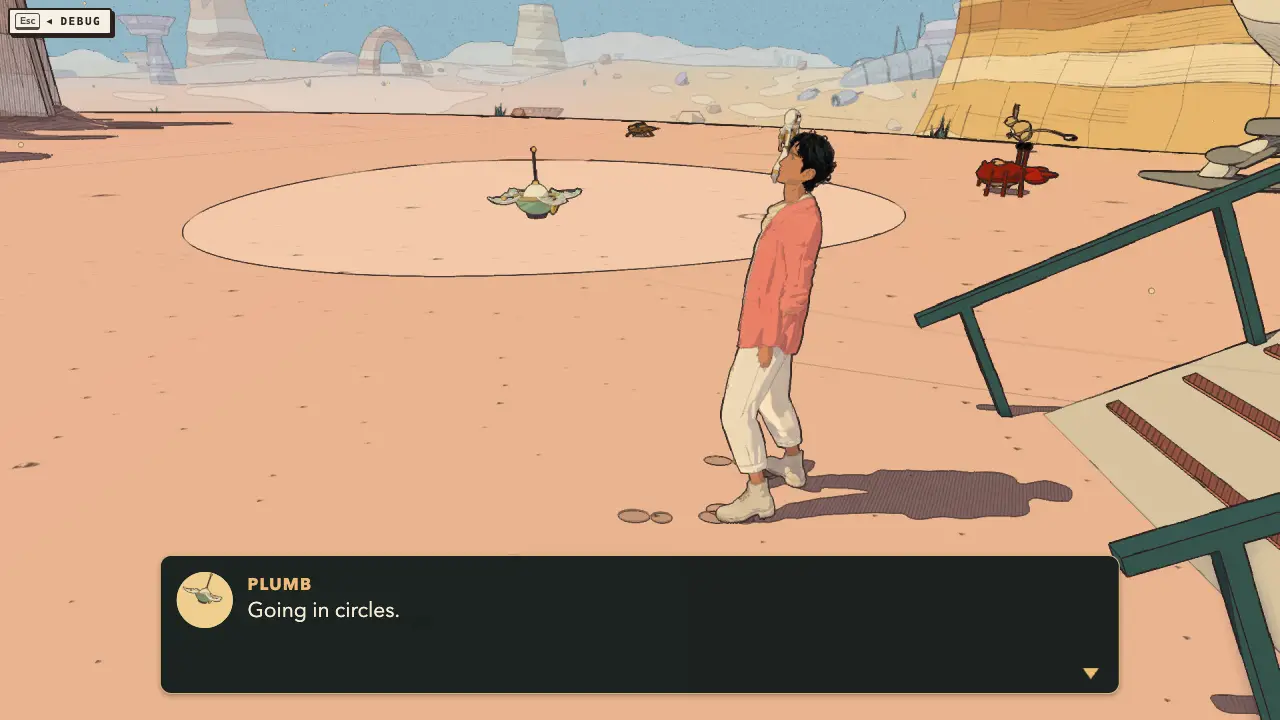
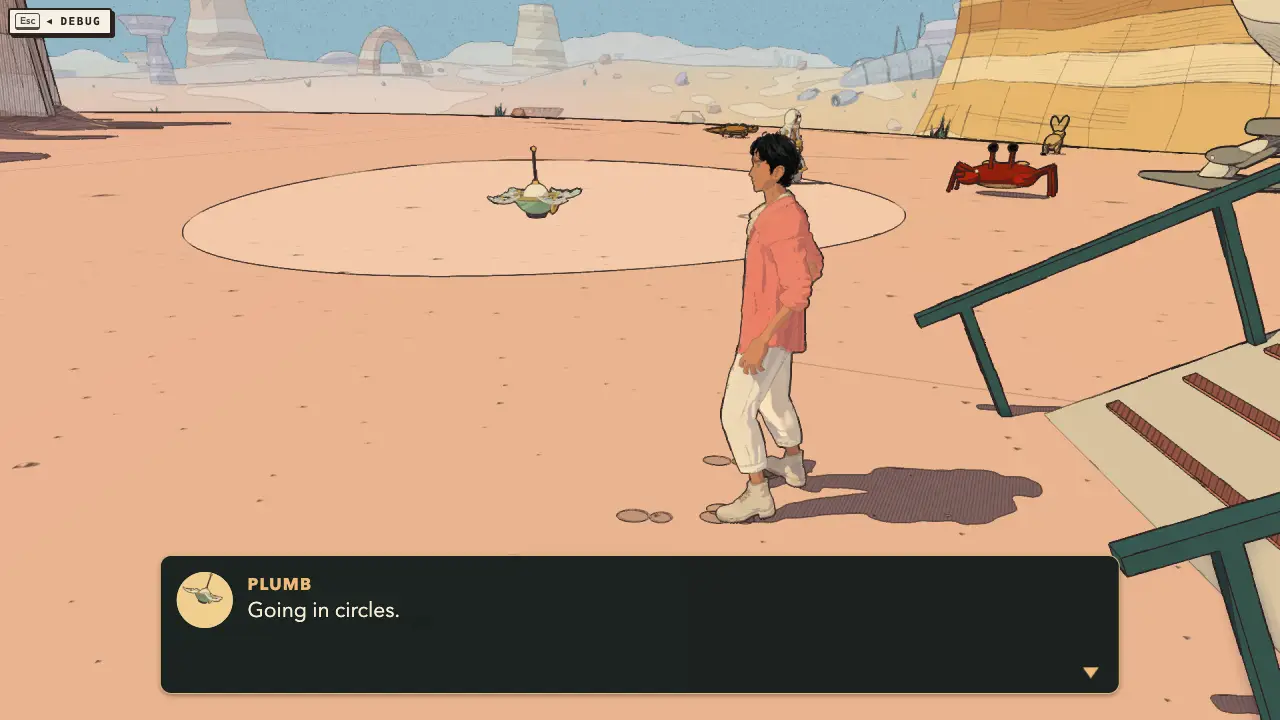
Conversation gestures keep the back upright and the face on the speaker (#678)
Listening to Plumb's lost talk ("Going in circles."), the traveller nodded with
his whole back leaned far back and his face to the sky. The cause was not a
look-at (nothing aims the head at a speaker; the eyes do, and the body turns
flat) but the conversation gestures: Mixamo's talkers stand back with their
faces 15-25 deg up, and gestures.glb folds each clip's hips into spine_01 for
hips at rest while the idle's hips under the layer are tipped back. Laid on,
every clip (the listener's nods included) leaned bodies 7-25 deg back.

Animator.layTalk now lays spine_01 on over the hips as captured, takes each
clip's own mean lean back and face lift out by its weight (pitchBase, from its
tracks), and holds what is left within GESTURE_POSE past the idle's pose
(3 deg back, 8 deg up, softly: heldPitch). Forward leans and looking down stay.
Every body that gestures gets it (the traveller and the people).

Tests: talk-gesture.test.js checks heldPitch and, on the traveller, every clip
within 8 deg of his standing lean and 10 deg of his standing face (fails on
origin/main: talking_1 leans to -11.7 deg). Thinking's hand on the small of his
back is allowed 5.5 cm from the trunk's line (upright, the back comes to it).
Changelog line with a before/after of the forced nod; plumb-plain-after.webp
shot again with the fix.

Unity: the pose is computed by the same src/animator.js through engine/, so
the engines get it; not checked in the Unity editor (no Unity run).

diff --git a/src/animator.js b/src/animator.js
@@ -3,6 +3,7 @@ import { worldPos, worldQuat, updateChain } from './world-read.js';
 import { GLTFLoader } from 'three/addons/loaders/GLTFLoader.js';
 import { clone as cloneSkeleton } from 'three/addons/utils/SkeletonUtils.js';
 import { MotionMatcher, MATCH, mirrorClip } from './motion-match.js';
+import { GESTURE_POSE, heldPitch } from './talk-gesture.js';
 
 // Motion from Quaternius' Universal Animation Library (CC0, public/anim/),
 // retargeted onto our hand-built rider rig.
@@ -317,6 +318,36 @@ const _q = new THREE.Quaternion(), _q2 = new THREE.Quaternion(), _qp = new THREE
 const _a = new THREE.Vector3(), _b = new THREE.Vector3(), _d = new THREE.Vector3(), _r = new THREE.Vector3();
 const _m = new THREE.Matrix4(), _x = new THREE.Vector3(), _y = new THREE.Vector3(), _z = new THREE.Vector3();
 const DOWN = new THREE.Vector3(0, -1, 0), UP = new THREE.Vector3(0, 1, 0), FWD = new THREE.Vector3(0, 0, 1);
+const TRUNK = ['spine_01', 'spine_02', 'spine_03', 'neck_01', 'Head'];
+const _tp0 = { p0: new THREE.Quaternion(), pH: new THREE.Quaternion() }, _tp1 = { p0: new THREE.Quaternion(), pH: new THREE.Quaternion() };
+const _tq = new THREE.Quaternion(), _tq2 = new THREE.Quaternion(), _tv = new THREE.Vector3(), _tv2 = new THREE.Vector3(), _tv3 = new THREE.Vector3();
+/**
+ * The back's lean and the face's pitch from the chain's own numbers (no matrices: the walk at the end of the frame makes
+ * them, src/matrix-cache.js): `R` the rest chain (Animator.restChain), `pelvis` the hips' local turn, `local(i)` /
+ * `pos(i)` TRUNK[i]'s. Into `out`: lean (rad, forward +: spine_01 to neck_01 about the body's side; the library skeleton
+ * faces +Z, y up), up (rad, the face's pitch, up +, from its rest), fx, fz (the face's way), p0 and pH (the world turns
+ * of spine_01's parent and of the head's).
+ */
+function trunkPitch(R, pelvis, local, pos, restHead, out) {
+  const q = _tq.copy(R.root).multiply(pelvis), at = _tv.set(0, 0, 0), neck = _tv2.set(0, 0, 0);
+  out.p0.copy(q);
+  for (let i = 0; i < TRUNK.length; i++) {
+    if (i > 0) at.add(_tv3.copy(pos(i)).applyQuaternion(q));
+    if (i === 4) out.pH.copy(q);
+    q.multiply(local(i));
+    if (i === 3) neck.copy(at);
+  }
+  out.lean = Math.atan2(neck.z, neck.y);
+  const f = _tv3.copy(FWD).applyQuaternion(q.multiply(_tq2.copy(restHead).invert()));
+  out.up = Math.asin(THREE.MathUtils.clamp(f.y, -1, 1));
+  out.fx = f.x; out.fz = f.z;
+  return out;
+}
+/** Turn `bone` by `angle` about `axis` (world), its parent's world turn `pw`: its local turn, the matrices left to the walk. */
+function turnInWorld(bone, pw, axis, angle) {
+  _tq2.setFromAxisAngle(axis, angle);
+  bone.quaternion.premultiply(_tq.copy(pw).invert().multiply(_tq2).multiply(pw));
+}
 
 export class Animator {
   /** @param lib result of loadAnimationLibrary(); @param char a buildCharacter() rig */
@@ -375,6 +406,10 @@ export class Animator {
     this.restHips = this.hips.getWorldPosition(new THREE.Vector3());
     this.restAnkleY = this.bone('foot_l').getWorldPosition(new THREE.Vector3()).y;   // (the clips' floor: a standing ankle's height)
     this.restHipsQ = this.hips.getWorldQuaternion(new THREE.Quaternion());
+    // (the back's chain at rest, the hips' parent in the world: each gesture's own lean and lift of the face, pitchBase)
+    this.restChain = { root: this.hips.parent ? worldQuat(this.hips.parent, new THREE.Quaternion()) : new THREE.Quaternion(), pelvis: this.hips.quaternion.clone(),
+      bones: TRUNK.map((n) => { const b = this.bone(n); return b ? { name: n, b, q: b.quaternion.clone(), p: b.position.clone() } : null; }) };
+    if (this.restChain.bones.some((x) => !x) || !this.restHead) this.restChain = null;
     for (const a of Object.values(this.actions)) a.play();
     this.phase = 0;
     this.w = { idle: 1, walk: 0, jog: 0, sprint: 0, air: 0, jumpStart: 0, drive: 0, talk: 0, jumpLand: 0, look: 0, ledge: 0, climbIdle: 0, climbUp: 0, climbDown: 0, climbLeft: 0, climbRight: 0 };
@@ -771,14 +806,76 @@ export class Animator {
     const free = s.onGround && !(s.speed > 0.6) && !s.steering && (s.mode === 'ground' || s.mode === 'talk' || s.mode == null) && !(this.move && this.move.legs !== false);
     const list = G.update(dt, free ? info : null, this);
     this.talkW = 0;   // (this frame's most: a seated body's arms come off its lap by it, NPC.posture)
+    const idle = list.length && this.restChain ? this.talkPitch(_tp0) : null;   // (the idle's lean and face, under the gestures)
     for (const g of list) {
       const clip = this.moveClip(g.name);
       if (!clip || !(g.w > 0.001)) continue;
-      this.overlayMove(Object.assign(this._talkM ??= {}, { clip, t: g.t, w: g.w, spine: g.spine }));
+      this.overlayMove(Object.assign(this._talkM ??= {}, { clip, t: g.t, w: g.w, spine: g.spine, talk: true }));
       this.headW = Math.max(this.headW, g.w);
       this.talkW = Math.max(this.talkW, g.w);
     }
+    if (idle && this.talkW > 0) {
+      // (each clip's own lean back and face lifted taken out by its weight, issue #678: its nods and bows kept as they go)
+      let back = 0, up = 0;
+      for (const g of list) {
+        const clip = this.moveClip(g.name), b = clip && g.w > 0.001 ? this.pitchBase(clip) : null;
+        if (!b) continue;
+        // (the face's own lift on the back's: a clip leaning back lifts the face with it; seated, the back is the seat's)
+        if (g.spine !== false) back += g.w * Math.max(0, b.back);
+        up += g.w * Math.max(0, b.up - Math.max(0, b.back));
+      }
+      const B = this.restChain.bones;
+      if (back > 1e-4) turnInWorld(B[0].b, this.talkPitch(_tp1).p0, _x.set(1, 0, 0), back);
+      if (up > 1e-4) { const f = this.talkPitch(_tp1), l = Math.hypot(f.fx, f.fz); if (l > 1e-4) turnInWorld(B[4].b, f.pH, _x.set(f.fz / l, 0, -f.fx / l), up); }
+      this.holdTalkPitch(idle);
+    }
     if (!info && G.idle) { this.talkGesture = null; this.talkW = 0; }
+  }
+
+  /** The source skeleton's back and face as they are posed now (trunkPitch), into `out`. */
+  talkPitch(out) {
+    const B = this.restChain.bones;
+    return trunkPitch(this.restChain, this.hips.quaternion, (i) => B[i].b.quaternion, (i) => B[i].b.position, this.restHead, out);
+  }
+
+  /**
+   * A gesture clip's own standing lean back and lift of the face (rad, the mean over the clip, the hips at rest; negative:
+   * it leans forward, looks down), from its tracks: { back, up }, once a clip. Mixamo's talkers stand some 5-10° back
+   * with their faces 15-25° up; taken out, a nod nods about the idle's own face, not the sky.
+   */
+  pitchBase(clip) {
+    const cache = (this._pitchBase ??= new Map());
+    let b = cache.get(clip);
+    if (b) return b;
+    const R = this.restChain, ip = R.bones.map((x) => clip.tracks.find((t) => t.name === `${x.name}.quaternion`)?.createInterpolant());
+    const o = { p0: new THREE.Quaternion(), pH: new THREE.Quaternion() }, at = (i) => R.bones[i].p;
+    const { lean: lean0, up: up0 } = trunkPitch(R, R.pelvis, (i) => R.bones[i].q, at, this.restHead, o);
+    let back = 0, up = 0, n = 0, t = 0;
+    const N = Math.max(2, Math.ceil(clip.duration * 10)), qs = R.bones.map(() => new THREE.Quaternion());
+    const local = (i) => (ip[i] ? qs[i].fromArray(ip[i].evaluate(t)) : R.bones[i].q);
+    for (let k = 0; k < N; k++) {
+      t = (k / (N - 1)) * clip.duration;
+      trunkPitch(R, R.pelvis, local, at, this.restHead, o);
+      back += lean0 - o.lean; up += o.up - up0; n++;
+    }
+    b = { back: back / n, up: up / n };
+    cache.set(clip, b);
+    return b;
+  }
+
+  /**
+   * The gestures laid on, the trunk leaning back no further than GESTURE_POSE.back past the idle's under them and the
+   * face lifted no higher than GESTURE_POSE.up over it (softly: heldPitch), issue #678: Mixamo's talkers lean back and
+   * nod with their faces well up, and a listener's nod at Plumb, at eye height before his face, looked at the sky.
+   * The excess is turned forward at the spine's first joint (the whole back with it), then at the head.
+   */
+  holdTalkPitch(idle) {
+    const B = this.restChain.bones;
+    let now = this.talkPitch(_tp1);
+    const back = idle.lean - now.lean, keep = heldPitch(back, GESTURE_POSE.back);
+    if (back > keep + 1e-4) { turnInWorld(B[0].b, now.p0, _x.set(1, 0, 0), back - keep); now = this.talkPitch(_tp1); }
+    const up = now.up - idle.up, held = heldPitch(up, GESTURE_POSE.up), l = Math.hypot(now.fx, now.fz);
+    if (up > held + 1e-4 && l > 1e-4) turnInWorld(B[4].b, now.pH, _x.set(now.fz / l, 0, -now.fx / l), up - held);   // (about the face's side: down)
   }
 
   /**
@@ -797,7 +894,13 @@ export class Animator {
       const b = (u.b ??= new Map()).get(this) ?? (u.b.set(this, this.bone(u.bone)), u.b.get(this));
       if (!b) continue;
       const v = u.ip.evaluate(M.t);
-      if (u.prop === 'quaternion') b.quaternion.slerp(_q.fromArray(v), M.w);
+      if (u.prop === 'quaternion') {
+        _q.fromArray(v);
+        // (a gesture's back on the hips as they were captured, issue #678: gestures.glb folds the clip's hips into
+        // spine_01 for hips at rest, and the idle's hips under it are tipped back from their rest: the chest went with them)
+        if (M.talk && u.bone === 'spine_01' && this.restChain) _q.premultiply(_q2.copy(this.hips.quaternion).invert().multiply(this.restChain.pelvis));
+        b.quaternion.slerp(_q, M.w);
+      }
       else if (u.prop === 'position') b.position.lerp(_a.fromArray(v), M.w);
     }
   }

diff --git a/tests/talk-gesture.test.js b/tests/talk-gesture.test.js
@@ -12,7 +12,7 @@ const el = () => ({ classList: { add() {}, remove() {}, toggle() {}, contains: (
 globalThis.document ??= { createElement: el, body: el(), getElementById: () => null, querySelector: () => null };
 globalThis.window ??= { innerWidth: 1200, innerHeight: 800 };
 const { TONES } = await import('../src/story/tone.js');
-const { GESTURE_CLIPS, TONE_GESTURES, INTENTS, ACK, GESTURE, TalkGesture, talkGestures, pickGesture, gestureChoices, intentOf } = await import('../src/talk-gesture.js');
+const { GESTURE_CLIPS, TONE_GESTURES, INTENTS, ACK, GESTURE, GESTURE_POSE, TalkGesture, talkGestures, pickGesture, gestureChoices, intentOf, heldPitch } = await import('../src/talk-gesture.js');
 const { course, traveller, loadAssets } = await import('./gait-sim.js');
 const { NPC } = await import('../src/npc.js');
 const { Physics } = await import('../src/physics.js');
@@ -51,6 +51,21 @@ test('every tone has gestures, every gesture is in gestures.glb, and the file is
   assert.equal(FILE.clips.length, ALL.length, 'nothing in the file the layer does not know');
   const bytes = readFileSync('public/anim/gestures.glb').length;
   assert.ok(bytes < 260 * 1024, `gestures.glb ${(bytes / 1024).toFixed(0)} KB`);
+});
+
+test('a gesture\'s lean back and lifted face are held softly: as they are up to half the most, never past it (issue #678)', () => {
+  for (const most of [GESTURE_POSE.back, GESTURE_POSE.up]) {
+    assert.ok(most > 0 && most < 0.3, 'a few degrees');
+    for (const x of [-0.5, -0.01, 0, most / 4, most / 2]) assert.equal(heldPitch(x, most), x, 'up to the knee, as it is (forward, down: the gesture\'s own)');
+    let last = -Infinity;
+    for (let x = 0; x < 1.2; x += 0.005) {
+      const h = heldPitch(x, most);
+      assert.ok(h >= last - 1e-12 && h <= x + 1e-12 && h <= most, `${x.toFixed(3)} → ${h.toFixed(4)}: monotonic, never more, never past ${most}`);
+      if (x > 0) assert.ok(h - last < 0.005 + 1e-9, 'no jump');
+      last = h;
+    }
+    assert.ok(heldPitch(0.5, most) > most * 0.99, 'far past it, nearly all of it');
+  }
 });
 
 test('a loop comes round seamlessly: its last frame is its first', () => {
@@ -157,7 +172,8 @@ const wp = (o) => o.getWorldPosition(new THREE.Vector3());
 function play(body, A, B, step, id, secs, seated = false) {
   const info = { speaking: true, key: 'line', tone: 'neutral', text: '', seated };
   if (id) { talkGestures.drive(A, info); A.talkGesture.start(id, A, seated ? GESTURE.seated : 1, 0, !seated); A.talkGesture.key = 'line'; A.talkGesture.last = id; }
-  const r = { feet: 0, inside: Infinity, face: 0, finite: true, played: 0 };
+  const r = { feet: 0, inside: Infinity, face: 0, finite: true, played: 0, lean: Infinity, up: -Infinity };
+  const fwd = () => V(0, 0, 1).applyQuaternion(body.object.getWorldQuaternion(new THREE.Quaternion())).setY(0).normalize();
   const balls = [wp(B.ball_l), wp(B.ball_r)];
   const R = body.humanoid.rest, turn = (b) => b.getWorldQuaternion(new THREE.Quaternion()).multiply(R.get(b).q.clone().invert());
   for (let i = 0; i < secs * 60; i++) {
@@ -175,6 +191,12 @@ function play(body, A, B, step, id, secs, seated = false) {
     // the face's way from the chest's (deg): on the shoulders, not round behind them
     const c = new THREE.Vector3(0, 0, 1).applyQuaternion(turn(B.Head)).applyQuaternion(turn(B.spine_03).invert());
     r.face = Math.max(r.face, Math.acos(THREE.MathUtils.clamp(c.z, -1, 1)) * 180 / Math.PI);
+    // (issue #678) the trunk's lean (deg, forward +: hips to neck along the way he faces) and the face's pitch (deg, up +)
+    if (i >= 20) {
+      const f = fwd(), sp = neck.clone().sub(pel).normalize();
+      r.lean = Math.min(r.lean, Math.atan2(sp.dot(f), sp.y) * 180 / Math.PI);
+      r.up = Math.max(r.up, Math.asin(THREE.MathUtils.clamp(f.clone().applyQuaternion(turn(B.Head)).y, -1, 1)) * 180 / Math.PI);
+    }
   }
   return r;
 }
@@ -229,7 +251,15 @@ for (const [name, make, clips, clear = 0.085] of [
       assert.ok(r.finite, `${name} / ${id}: finite`);
       assert.ok(r.played > 20, `${name} / ${id}: played (${r.played} frames at full weight)`);
       assert.ok(r.feet < still.feet + 0.01, `${name} / ${id}: the feet move ${(r.feet * 100).toFixed(1)} cm (standing still ${(still.feet * 100).toFixed(1)})`);
-      assert.ok(r.inside > clear, `${name} / ${id}: a hand ${(r.inside * 100).toFixed(1)} cm from the trunk's line`);
+      // (Thinking's hand rests on the small of his back: upright since issue #678, not leaning back off it, the back comes
+      // to it; in the studio's pictures it lies on the shirt)
+      assert.ok(r.inside > (id === 'thinking' ? Math.min(clear, 0.055) : clear), `${name} / ${id}: a hand ${(r.inside * 100).toFixed(1)} cm from the trunk's line`);
+      // (issue #678: Mixamo's talkers stand back with their faces up; laid over his idle every clip leaned him 7-25° back
+      // and lifted his face 15-30° over it, and a nod at Plumb before his face stared at the sky)
+      if (name === 'the traveller') {
+        assert.ok(r.lean > still.lean - 8, `${name} / ${id}: leans back to ${r.lean.toFixed(1)}° (standing ${still.lean.toFixed(1)}°)`);
+        assert.ok(r.up < still.up + 10, `${name} / ${id}: the face up to ${r.up.toFixed(1)}° (standing ${still.up.toFixed(1)}°)`);
+      }
       assert.ok(r.face < 95, `${name} / ${id}: the face ${r.face.toFixed(0)}° from the chest's way`);
     }
   });

diff --git a/src/changelog-media.js b/src/changelog-media.js
@@ -1351,6 +1351,21 @@ const SEAPORT572 = 'Issue #572: the web game in muted headless Chrome (High, 128
 export const CHANGELOG_MEDIA = {
   '2.29': [
   {
+    "match": "In conversations people stand up straight",
+    "shots": [
+      {
+        "name": "plumb-nod",
+        "caption": "Plumb’s lost talk, the traveller nodding as it speaks: before, his back leaned far back and his face up at the sky; after, upright, his face on Plumb before it",
+        "from": "Issue #678: the recorded sequence plumb-talk (engine/sequences.js) played beat by beat in muted headless Chrome (1280 × 720, High) on a Vite of its own (port 5440), its lostTalk beat; the listener's nod forced so it is in the frame both times (talk-gesture.js ACK: chance 1, Lengthy Head Nod; otherwise it comes on four lines in ten); before: origin/main at e87f10816, after: this change; 26 October; cwebp -q 72",
+        "view": "The same beat, camera and nod in both. Plumb is the small white drone just before his face. Every conversation gesture, on everyone, was held the same way; only this one is pictured.",
+        "size": [
+          1280,
+          720
+        ]
+      }
+    ]
+  },
+  {
     "match": "The shops and rooms look lived in",
     "shots": [
       {
@@ -1459,7 +1474,7 @@ export const CHANGELOG_MEDIA = {
         "name": "plumb-plain",
         "only": "after",
         "caption": "Plumb’s lost talk in plain words: “Going in circles.”, then it flies off to show the way — after only",
-        "from": "Muted headless Chrome (1280 × 720), Vite on port 5422, the issue #626 branch (192353d4f, now on 8d9d0cd6d) plus the clarity rewrites, 25 October 2026: the recorded sequence plumb-talk (node scripts/unity-compare/sequences.mjs web plumb-talk), its lostTalk beat; cwebp -q 72.",
+        "from": "Muted headless Chrome (1280 × 720), the recorded sequence plumb-talk (node scripts/unity-compare/sequences.mjs web plumb-talk), its lostTalk beat; cwebp -q 72. Shot again on 26 October (issue #678, Vite on port 5440, on e87f10816 with the fix): the first shot, of 25 October (the issue #626 branch), had caught the traveller in a listener's nod leaning far back, face to the sky.",
         "view": "Full frame of a scripted sequence (the traveller walked in a small circle by the ship until Plumb came with its mark, then its talk opened). The old line here was “That rock again.”; no before picture is claimed. Text-only change: one page of one talk shown, the guardian hints and the ship's lines are not pictured.",
         "size": [
           1280,

diff --git a/src/talk-gesture.js b/src/talk-gesture.js
@@ -70,6 +70,26 @@ export const GESTURE = {
 /** The one listening: now and then a nod, a little after the other's line starts. */
 export const ACK = { chance: 0.4, after: [0.5, 1.2], w: 0.8, clips: ['acknowledging', 'head_nod_yes', 'lengthy_head_nod'] };
 
+/**
+ * How far a gesture may tip the body back from the idle under it (rad; issue #678). Mixamo's actors stand a little
+ * back as they talk and nod with the face well up: laid over the game's idle, every clip leaned the trunk back 7-15°
+ * and lifted the face 15-25° above it, and a listener's nod at someone at eye height (Plumb before his face) read as
+ * staring at the sky. `back`: the trunk (the spine's line, hips to neck) leaning back past the idle's; `up`: the face
+ * lifted above the idle's. Both approached softly from half way (heldPitch); leaning forward and looking down are the
+ * gestures' own (a sigh, a bow, Sad Idle's eyes on the ground) and kept.
+ */
+export const GESTURE_POSE = { back: 0.05, up: 0.14 };
+
+/**
+ * A pitch past the idle's (`over`, rad, positive the way it is limited) as it is kept: as it is up to half of `most`,
+ * then bent softly so it never quite reaches `most` (monotonic, the slope 1 at the knee: no flat top to a nod).
+ */
+export function heldPitch(over, most) {
+  if (!(over > most / 2)) return over;
+  const k = most / 2;
+  return k + k * Math.tanh((over - k) / k);
+}
+
 const clipName = (id) => `gesture_${id}`;
 const hash = (s) => { let h = 2166136261; for (let i = 0; i < s.length; i++) { h ^= s.charCodeAt(i); h = Math.imul(h, 16777619); } return h >>> 0; };
 const rand = (seed) => { let a = seed >>> 0; return () => { a = (a + 0x6d2b79f5) >>> 0; let t = a; t = Math.imul(t ^ (t >>> 15), t | 1); t ^= t + Math.imul(t ^ (t >>> 7), t | 61); return ((t ^ (t >>> 14)) >>> 0) / 4294967296; }; };

diff --git a/src/changelog.js b/src/changelog.js
@@ -16,6 +16,7 @@ export const CHANGELOG = [
       "Worked timber looks like wood: planks with grain, knots and nail holes, sun-bleached on top and darker underneath, now and then a faded teal plank. On the desert’s wells, camps and landmarks, the City-Shaft’s quarters, the Moon Foundry’s stairs, the Underwater City’s posts and Lorn’s walkways.",
       "Open ground holds up further off: soft drifts of a paler ochre, long pen lines along the slopes and stones with their little shadows still read out to a couple of hundred metres. In Vael, the Glass Dunes, the Buried Machine and at home.",
       "Viridel’s tea terraces, on the white builders’ steps, are paved in clean flagstones like the cities’ plazas.",
+      { text: "In conversations people stand up straight: nodding along or talking with their hands, nobody leans far back with their face to the sky any more. The traveller listening to Plumb looks at it, not over it.", see: "Walk in circles in the desert until Plumb comes, press its button and watch him while it talks; or talk to anyone and watch them nod." },
     ],
   },
 

diff --git a/docs/systems/characters.md b/docs/systems/characters.md
@@ -1221,6 +1221,18 @@ line, their body above the hips takes a gesture in the line's tone, from Mixamo'
   each frame counting 1/250 s at the least so a stopped clock is caught; `src/air-moves.js` `AIR.stuck`: a jump's or a
   drop's move still on 1.2 s after the ground, dropped). A real landing never reaches either. `tests/pose-guards.test.js`.
   If it happens again, the pose report says which layer held it (F8, `docs/systems/dev-tools.md`).
+- **Upright, the face on the other** (issue #678: listening to Plumb before his face, the traveller nodded with his
+  back leaned far back and his face to the sky). Mixamo's talkers stand back with their faces 15–25° up, and the idle's
+  hips under the layer are tipped back from their rest, while `gestures.glb` folds each clip's hips into `spine_01` for
+  hips at rest: laid on, every clip leaned him 7–25° back. Three things in `Animator.layTalk` hold it: `spine_01` is
+  laid on over the hips as captured (the idle's hips' turn from their rest taken back off it); each clip's own mean lean
+  back and lift of the face (`pitchBase`, from its tracks, once a clip) are taken out by its weight, so a nod nods about
+  the idle's face; and what is left is held within `GESTURE_POSE` past the idle's pose under it, measured before the
+  layer (the back 3° back at most, the face 8° up: `holdTalkPitch`, softly from half way: `heldPitch`). Leaning forward
+  and looking down are the gestures' own and kept (a sigh, Sad Idle's eyes on the ground). Nothing aims his head at a
+  speaker; his eyes find their face (`updateEyes`) and his body turns to them (`faceToward`, flat), so a speaker high up
+  (a balcony, the drone) is looked at with the eyes alone. Tests: `tests/talk-gesture.test.js` (on the traveller, every
+  clip within 8° of his standing lean and 10° of his standing face; `heldPitch`).
 - **The tone map** (`TONE_GESTURES`; every tone of `src/story/tone.js` has two clips at least):
 
   | Tone | Clips |

diff --git a/changelog.md b/changelog.md
@@ -4,6 +4,7 @@ The same release notes shown in the game (press **N** or open settings).
 
 ## v2.29 — 2026-10-26
 
+- In conversations people stand up straight: nodding along or talking with their hands, nobody leans far back with their face to the sky any more. The traveller listening to Plumb looks at it, not over it.
 - Viridel’s tea terraces, on the white builders’ steps, are paved in clean flagstones like the cities’ plazas.
 - Open ground holds up further off: soft drifts of a paler ochre, long pen lines along the slopes and stones with their little shadows still read out to a couple of hundred metres. In Vael, the Glass Dunes, the Buried Machine and at home.
 - Worked timber looks like wood: planks with grain, knots and nail holes, sun-bleached on top and darker underneath, now and then a faded teal plank. On the desert’s wells, camps and landmarks, the City-Shaft’s quarters, the Moon Foundry’s stairs, the Underwater City’s posts and Lorn’s walkways.
